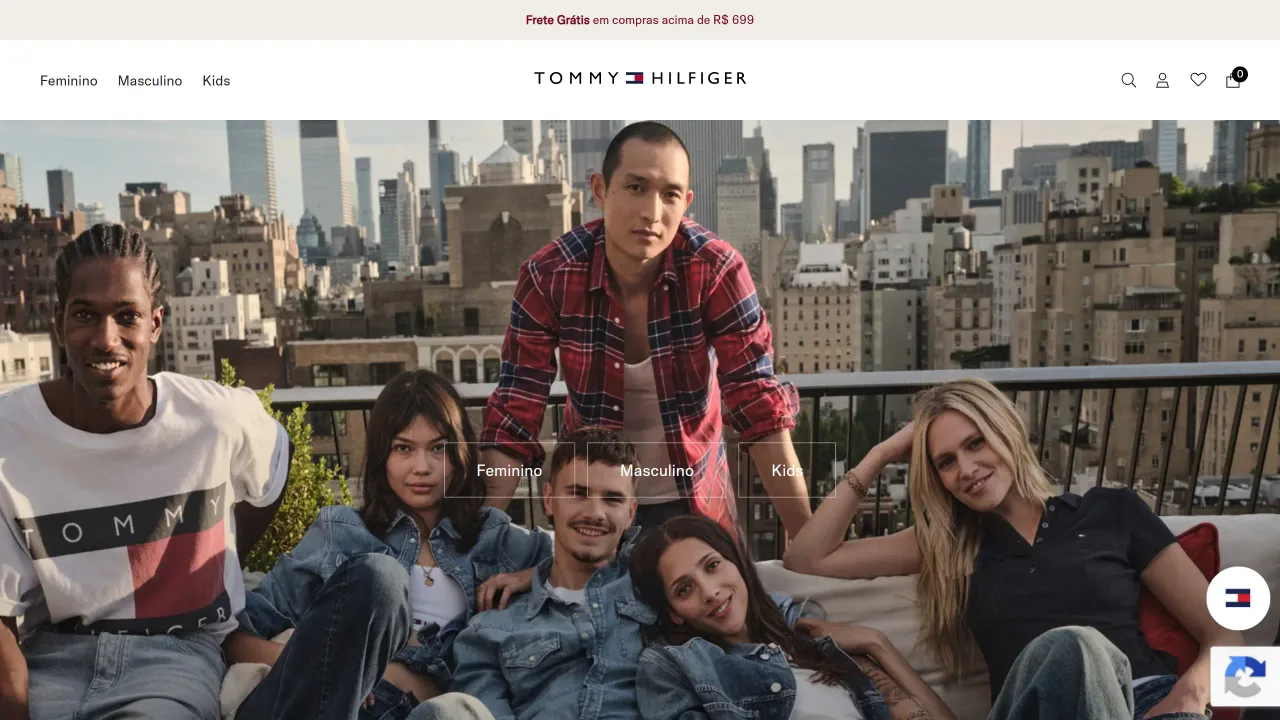
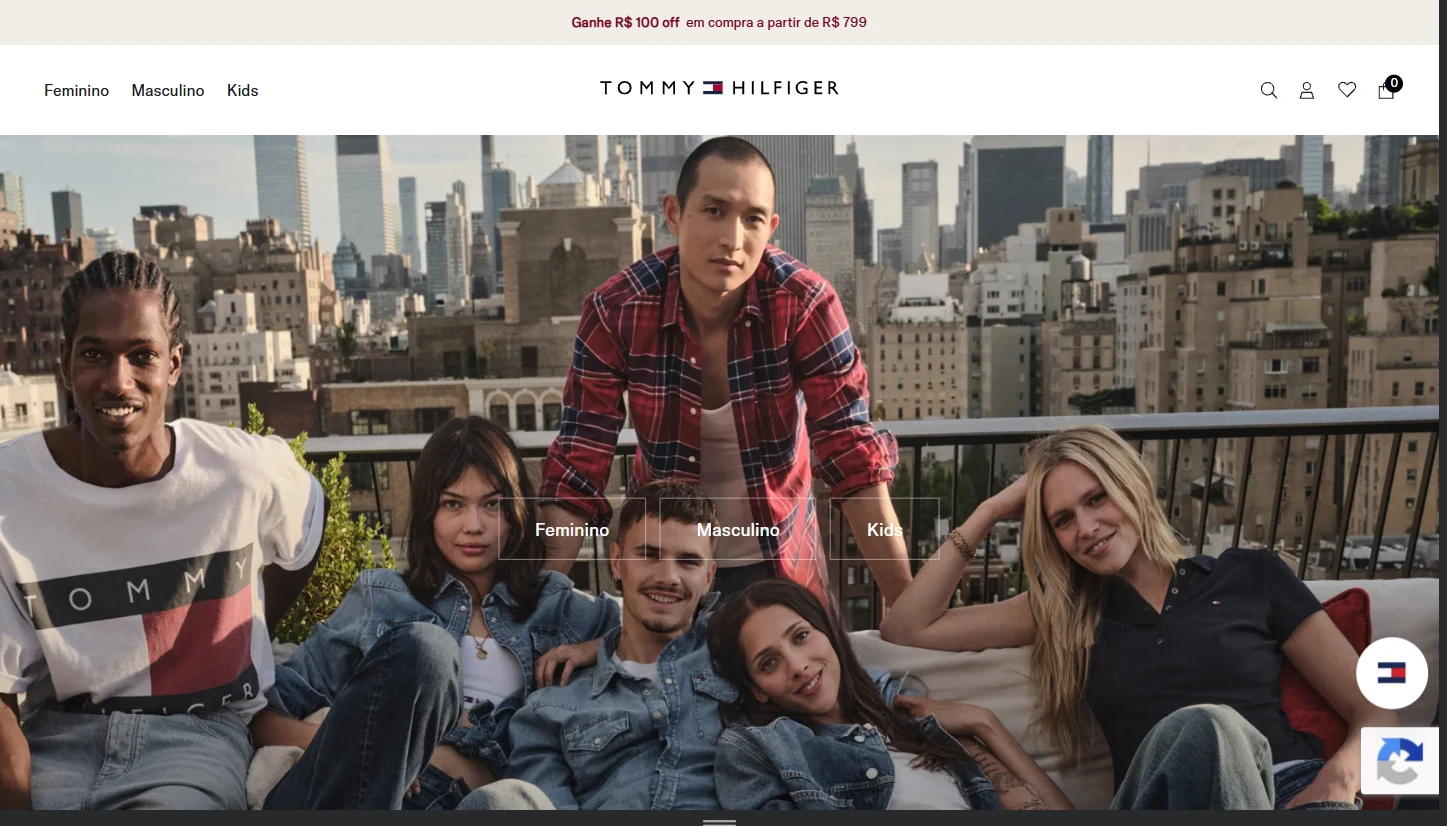
feat: projects page layout adjustments

diff --git a/components/projects/ProjectRow.tsx b/components/projects/ProjectRow.tsx
@@ -1,47 +1,77 @@
+import { ArrowIcon } from "@/components/ui/ArrowIcon";
+import {
+  textLinkArrowClass,
+  textLinkClass,
+  textLinkLabelClass,
+} from "@/components/ui/textLinkStyles";
 import { ProjectImages } from "./ProjectImages";
-import { focusRing } from "./styles";
-import type { ShowcaseItem } from "./types";
+import type { ShowcaseItem, ShowcaseLabels } from "./types";
 
-/** One row of the projects list: a button that opens the lightbox for its project. */
+/**
+ * One row of the projects list. The title is the button that opens the lightbox; its `::after`
+ * stretches over the whole row so the image opens it too, and the "visit site" link sits above that
+ * layer (a link can't live inside the button, and it must not open the lightbox).
+ */
 export function ProjectRow({
   item,
+  labels,
   onOpen,
-}: Readonly<{ item: ShowcaseItem; onOpen: (id: string, trigger: HTMLElement) => void }>) {
+}: Readonly<{
+  item: ShowcaseItem;
+  labels: Pick<ShowcaseLabels, "visit" | "newTab">;
+  onOpen: (id: string, trigger: HTMLElement) => void;
+}>) {
   return (
-    <li data-showcase-item className="border-b border-border lg:py-4">
-      <button
-        type="button"
-        data-showcase-open={item.id}
-        aria-haspopup="dialog"
-        onClick={(event) => onOpen(item.id, event.currentTarget)}
-        className={`group grid w-full cursor-pointer text-left lg:h-28 lg:grid-cols-[minmax(0,3fr)_minmax(0,2fr)] ${focusRing}`}
-      >
-        <span className="flex flex-col justify-center gap-1 py-6 lg:order-2 lg:px-8 lg:py-0">
-          <span
-            data-showcase-title
-            className="font-display text-2xl leading-tight font-medium sm:text-3xl"
-          >
-            {item.title}
-          </span>
-          <span data-showcase-meta className="text-sm text-muted">
-            {item.category}
-          </span>
-        </span>
-        <span
+    <li data-showcase-item className="group/row border-b border-border py-6 last:border-b-0 lg:py-4">
+      {/* The containing block for the button's stretched `::after`: the row itself, without the
+          li's padding and border, so the focus ring hugs the card. */}
+      <div className="relative lg:grid lg:h-48 lg:grid-cols-[minmax(0,3fr)_minmax(0,2fr)]">
+        <div
           data-showcase-image
-          className="relative mb-6 block aspect-video overflow-hidden rounded-xl bg-elevated lg:order-1 lg:mb-0 lg:aspect-auto lg:rounded-lg lg:rounded-tr-[3rem]"
+          className="relative mb-6 block aspect-video overflow-hidden rounded-xl bg-elevated lg:mb-0 lg:aspect-auto lg:rounded-lg lg:rounded-tr-[3rem]"
         >
-          <span className="absolute inset-0 block transition-transform duration-700 ease-soft group-hover:scale-105 motion-reduce:transition-none">
+          <span className="absolute inset-0 block transition-transform duration-700 ease-soft group-hover/row:scale-105 motion-reduce:transition-none">
             <ProjectImages images={item.images} sizes="(min-width: 1024px) 60vw, 100vw" />
           </span>
           {/* Evens out the very different screenshots on the page; lifts on hover, and the
               lightbox shows the image with its original colors. */}
           <span
             aria-hidden="true"
-            className="absolute inset-0 bg-black/30 transition-opacity duration-500 ease-soft group-hover:opacity-50 motion-reduce:transition-none"
+            className="absolute inset-0 bg-black/30 transition-opacity duration-500 ease-soft group-hover/row:opacity-50 motion-reduce:transition-none"
           />
-        </span>
-      </button>
+        </div>
+
+        <div className="flex flex-col justify-center gap-1 lg:px-8">
+          <button
+            type="button"
+            data-showcase-open={item.id}
+            aria-haspopup="dialog"
+            onClick={(event) => onOpen(item.id, event.currentTarget)}
+            className="w-fit cursor-pointer text-left after:absolute after:inset-0 after:rounded-lg focus-visible:outline-none focus-visible:after:outline-2 focus-visible:after:outline-offset-4 focus-visible:after:outline-accent"
+          >
+            <span
+              data-showcase-title
+              className="block font-display text-2xl leading-tight font-medium sm:text-3xl"
+            >
+              {item.title}
+            </span>
+          </button>
+          <span data-showcase-meta className="text-sm text-muted">
+            {item.category}
+          </span>
+          <a
+            data-showcase-meta
+            href={item.href}
+            target="_blank"
+            rel="noopener noreferrer"
+            className={`relative z-10 w-fit ${textLinkClass}`}
+          >
+            <span className={textLinkLabelClass}>{labels.visit}</span>
+            <ArrowIcon className={textLinkArrowClass} />
+            <span className="sr-only">{labels.newTab}</span>
+          </a>
+        </div>
+      </div>
     </li>
   );
 }

diff --git a/components/layout/Footer.tsx b/components/layout/Footer.tsx
@@ -1,10 +1,15 @@
 'use client'
 
 import { useTranslations } from 'next-intl'
+import { ArrowIcon } from '@/components/ui/ArrowIcon'
+import { textLinkArrowClass, textLinkClass, textLinkLabelClass } from '@/components/ui/textLinkStyles'
 import { usePathname } from '@/i18n/navigation'
+import { useContactLinks } from './useContactLinks'
 
 export function Footer() {
   const t = useTranslations('Footer')
+  const tHero = useTranslations('Hero')
+  const contacts = useContactLinks()
   // The home is a single screen with nothing to scroll back from, and its hero carries the credits
   // itself, right under the contact icons (see Hero), so it has no footer.
   if (usePathname() === '/') return null
@@ -12,12 +17,30 @@ export function Footer() {
   return (
     <footer className="border-t border-border py-8 short:py-4 text-base">
       <div className="mx-auto flex max-w-7xl flex-wrap items-center justify-between gap-x-6 gap-y-3 px-6 sm:px-8">
-        <p className="text-muted font-sans">
+        <p className="order-2 text-muted font-sans sm:order-1">
           {t('credits')} {t('copyright')}
         </p>
+        {contacts.length > 0 && (
+          <ul className="order-1 flex flex-wrap gap-x-6 sm:order-2">
+            {contacts.map((link) => (
+              <li key={link.href}>
+                <a
+                  href={link.href}
+                  target={link.external ? '_blank' : undefined}
+                  rel={link.external ? 'noopener noreferrer' : undefined}
+                  aria-label={link.external ? `${link.label} ${tHero('newTab')}` : link.label}
+                  className={textLinkClass}
+                >
+                  <span className={textLinkLabelClass}>{link.label}</span>
+                  <ArrowIcon className={textLinkArrowClass} />
+                </a>
+              </li>
+            ))}
+          </ul>
+        )}
         <a
           href="#"
-          className="inline-flex items-center gap-2 rounded-sm text-muted font-sans transition-colors hover:text-foreground focus-visible:outline-2 focus-visible:outline-offset-2 focus-visible:outline-accent"
+          className="order-3 hidden items-center gap-2 rounded-sm text-muted sm:inline-flex font-sans transition-colors hover:text-foreground focus-visible:outline-2 focus-visible:outline-offset-2 focus-visible:outline-accent"
         >
           {t('backToTop')}
           <svg

diff --git a/data/projects.ts b/data/projects.ts
@@ -20,9 +20,9 @@ export const projects = [
     demoUrl: "https://br.tommy.com/",
     image: {
       src: "/projects/tommy-hilfiger.webp",
-      width: 1280,
-      height: 720,
-      focus: "50% 66%",
+      width: 1447,
+      height: 826,
+      focus: "50% 57%",
       alt: {
         pt: "Página inicial do e-commerce da Tommy Hilfiger, com faixa de frete grátis, menu Feminino, Masculino e Kids e uma foto de campanha com modelos em um terraço com prédios ao fundo",
         en: "Tommy Hilfiger e-commerce home page, with a free shipping banner, Women, Men and Kids navigation and a campaign photo of models on a rooftop with city buildings behind them",
@@ -75,10 +75,10 @@ export const projects = [
     tech: ["React", "TypeScript", "Tailwind CSS", "VTEX"],
     demoUrl: "https://www.candide.com.br",
     image: {
-      src: "/projects/candide.webp",
-      width: 1440,
-      height: 900,
-      focus: "50% 55%",
+      src: "/projects/candide-banner.webp",
+      width: 1881,
+      height: 877,
+      focus: "50% 72%",
       alt: {
         pt: "Página inicial do e-commerce da Candide, com menu de categorias de brinquedos e banner da linha Bluey, com as pelúcias da família Heeler",
         en: "Candide e-commerce home page, with a toy category menu and a banner for the Bluey line, featuring plush toys of the Heeler family",

diff --git a/components/projects/ProjectDetails.tsx b/components/projects/ProjectDetails.tsx
@@ -1,4 +1,10 @@
 import type { Ref } from "react";
+import { ArrowIcon } from "@/components/ui/ArrowIcon";
+import {
+  textLinkArrowClass,
+  textLinkClass,
+  textLinkLabelClass,
+} from "@/components/ui/textLinkStyles";
 import { ProjectImages } from "./ProjectImages";
 import { focusRing } from "./styles";
 import type { ShowcaseItem, ShowcaseLabels } from "./types";
@@ -59,10 +65,10 @@ export function ProjectDetails({
           href={item.href}
           target="_blank"
           rel="noopener noreferrer"
-          className={`group mt-auto flex w-fit items-center gap-3 rounded-sm text-base font-medium ${focusRing}`}
+          className={`mt-auto self-start ${textLinkClass}`}
         >
-          {labels.visit}
-          <span className="h-px w-6 bg-current transition-[width] duration-500 ease-expressive group-hover:w-12 motion-reduce:transition-none" />
+          <span className={textLinkLabelClass}>{labels.visit}</span>
+          <ArrowIcon className={textLinkArrowClass} />
           <span className="sr-only">{labels.newTab}</span>
         </a>
       </div>

diff --git a/components/header/menu/MenuContacts.tsx b/components/header/menu/MenuContacts.tsx
@@ -3,18 +3,13 @@
 import { useTranslations } from "next-intl";
 import { ArrowIcon } from "@/components/ui/ArrowIcon";
 import { textLinkArrowLargeClass, textLinkLabelClass, textLinkLargeClass } from "@/components/ui/textLinkStyles";
-import { profile } from "@/data/profile";
+import { useContactLinks } from "@/components/layout/useContactLinks";
 import { menuRowEnter } from "./menuEnter";
 import { navItems } from "./navItems";
 
 export function MenuContacts({ open }: Readonly<{ open: boolean }>) {
   const tHero = useTranslations("Hero");
-
-  const contacts = [
-    profile.email && { href: `mailto:${profile.email}`, label: tHero("email"), external: false },
-    profile.linkedinUrl && { href: profile.linkedinUrl, label: tHero("linkedin"), external: true },
-    profile.githubUrl && { href: profile.githubUrl, label: tHero("github"), external: true },
-  ].filter((link): link is { href: string; label: string; external: boolean } => !!link);
+  const contacts = useContactLinks();
 
   if (contacts.length === 0) return null;
 

diff --git a/components/layout/useContactLinks.ts b/components/layout/useContactLinks.ts
@@ -1,0 +1,15 @@
+import { useTranslations } from "next-intl";
+import { profile } from "@/data/profile";
+
+export type ContactLink = { href: string; label: string; external: boolean };
+
+/** E-mail, LinkedIn and GitHub, for whichever of them the profile has; shared by the menu and the footer. */
+export function useContactLinks(): ContactLink[] {
+  const t = useTranslations("Hero");
+
+  return [
+    profile.email && { href: `mailto:${profile.email}`, label: t("email"), external: false },
+    profile.linkedinUrl && { href: profile.linkedinUrl, label: t("linkedin"), external: true },
+    profile.githubUrl && { href: profile.githubUrl, label: t("github"), external: true },
+  ].filter((link): link is ContactLink => !!link);
+}

diff --git a/components/projects/useProjectLightbox.ts b/components/projects/useProjectLightbox.ts
@@ -13,7 +13,7 @@ const prefersMotion = () =>
 function rowClip(panel: HTMLElement, trigger: HTMLElement | null): string {
   // The row's visible shape is its image (the text sits straight on the page), so that's what
   // the card grows out of.
-  const row = trigger?.querySelector<HTMLElement>("[data-showcase-image]");
+  const row = trigger?.closest("li")?.querySelector<HTMLElement>("[data-showcase-image]");
   if (!row) return PANEL_CLIP;
   const box = panel.getBoundingClientRect();
   const rect = row.getBoundingClientRect();

diff --git a/components/projects/ProjectShowcase.tsx b/components/projects/ProjectShowcase.tsx
@@ -36,9 +36,9 @@ export function ProjectShowcase({
 
       {intro && <p className="mt-4 max-w-2xl text-base leading-7 text-muted">{intro}</p>}
 
-      <ul className="lg:mt-2">
+      <ul className="mt-4 lg:mt-2">
         {items.map((item) => (
-          <ProjectRow key={item.id} item={item} onOpen={lightbox.open} />
+          <ProjectRow key={item.id} item={item} labels={labels} onOpen={lightbox.open} />
         ))}
       </ul>
 
